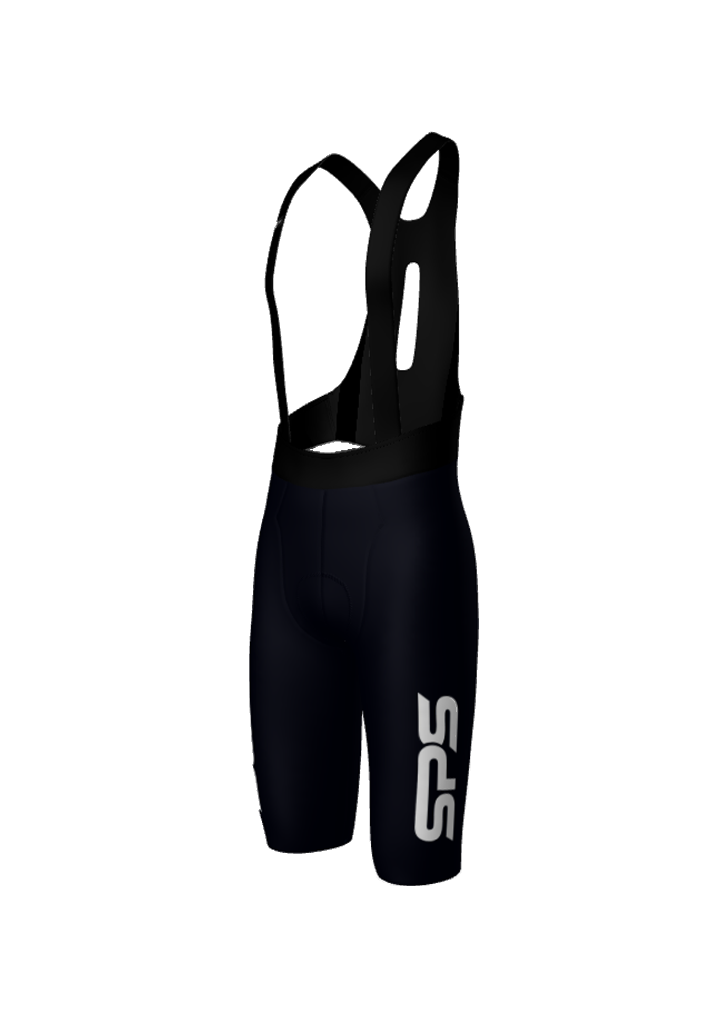
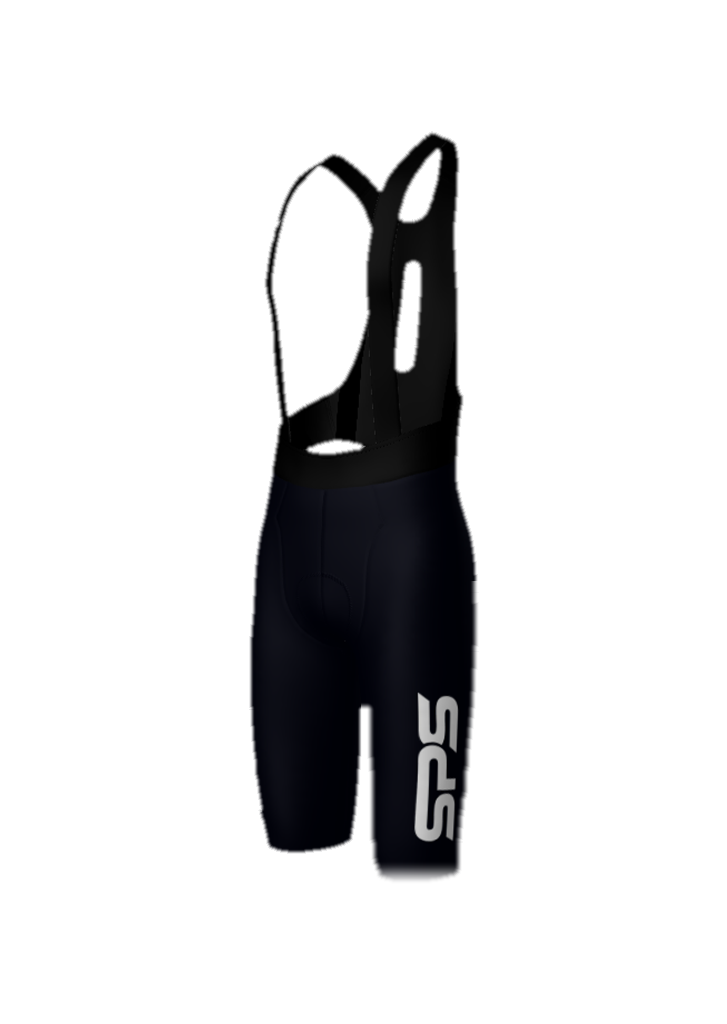
feat(precommandes): rename cuissard to X and apply progressive soft contours on lower-right silhouette

diff --git a/components/PreorderShowcase.tsx b/components/PreorderShowcase.tsx
@@ -62,13 +62,13 @@ const ARTICLES: ArticleItem[] = [
   },
   {
     id: "cuissard",
-    tabLabel: "Cuissard DUALKNIT",
+    tabLabel: "Cuissard X",
     badge: "Édition 2027 · Collection Officielle",
-    title: "CUISSARD SPS · DUALKNIT PRO",
+    title: "CUISSARD SPS · X",
     subtitle: "GOBIK · Peau Graphène Elastic Interface®",
     quote: "« Performance maximale, coupe franche et sensation seconde peau. »",
     image: "/images/cuissard-sps.png",
-    alt: "Nouveau cuissard officiel SPS 2027 Gobik DualKnit Pro",
+    alt: "Nouveau cuissard officiel SPS 2027 Gobik Modèle X",
     buttonLabel: "Pré-commander le cuissard sur HelloAsso",
     metrics: [
       { value: "165 g", label: "Poids (M)" },
@@ -76,7 +76,7 @@ const ARTICLES: ArticleItem[] = [
       { value: "17-35°C", label: "Température" },
       { value: "PEAU ↗", label: "Graphène", href: GOBIK_FITTING_GUIDE_URL },
     ],
-    narrativeBadge: "Tissu DUALKNIT PRO & Fil de Graphène",
+    narrativeBadge: "Modèle X · DUALKNIT PRO & Fil de Graphène",
     narrativeP1:
       "Développé pour offrir des performances maximales, ce cuissard combine un design minimaliste avec des matériaux de dernière génération. Son tissu DUALKNIT PRO, en maille circulaire, garantit une excellente élasticité, opacité, respirabilité et une grande durabilité. La forte présence de polyamide procure un toucher doux et un séchage rapide, en maintenant la peau confortable même lors des sorties prolongées.",
     narrativeP2:

diff --git a/app/(shell)/precommandes/page.tsx b/app/(shell)/precommandes/page.tsx
@@ -2,9 +2,9 @@ import type { Metadata } from "next";
 import { PreorderShowcase } from "@/components/PreorderShowcase";
 
 export const metadata: Metadata = {
-  title: "Précommandes SPS 2027 — Maillot CX SCA & Cuissard DualKnit Pro",
+  title: "Précommandes SPS 2027 — Maillot CX SCA & Cuissard X",
   description:
-    "Découvrez et précommandez la collection officielle SPS 2027 : le nouveau maillot Gobik CX SCA et le cuissard technique DualKnit Pro avec peau graphène.",
+    "Découvrez et précommandez la collection officielle SPS 2027 : le nouveau maillot Gobik CX SCA et le cuissard technique Modèle X avec peau graphène.",
 };
 
 export default function PrecommandesPage() {
